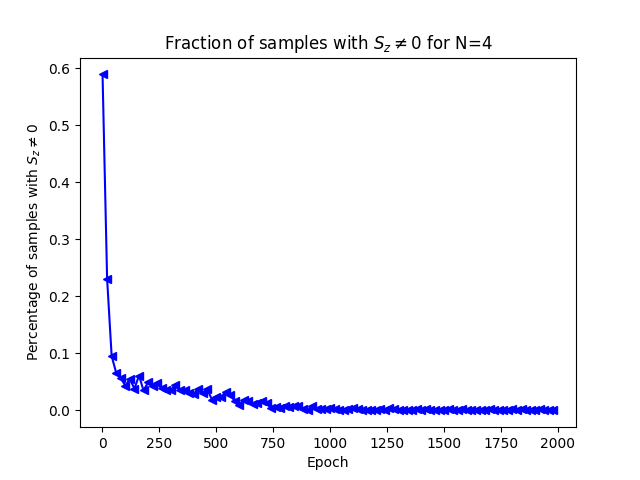
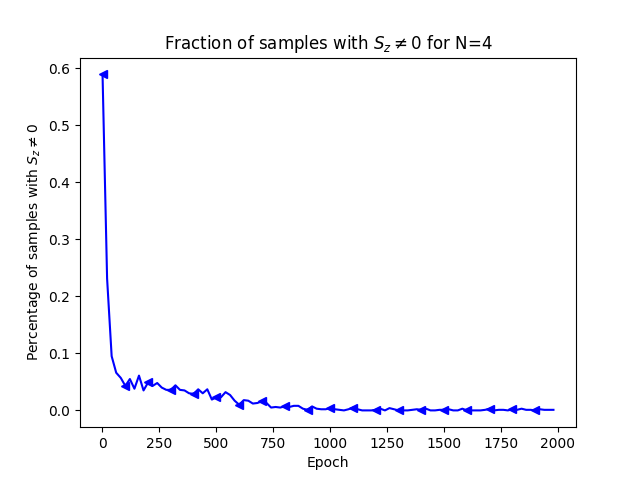
small tweaks to figures

Changed region(s): [[0.1875, 0.7812, 0.875, 0.875], [0.1562, 0.7188, 0.1875, 0.7812], [0.1562, 0.5625, 0.1875, 0.5938]]

diff --git a/visualizations.py b/visualizations.py
@@ -87,7 +87,7 @@ def plot_nonzero_sz(num_spins, in_path):
     sz_symm_false = np.load(os.path.join(path, f"sz_N_{num_spins}_symm_False.npy"))
 
     epochs = np.arange(len(sz_symm_false)) + 1
-    ax.plot(epochs[::20], sz_symm_false[::20], color="blue", marker='<')
+    ax.plot(epochs[::20], sz_symm_false[::20], color="blue", marker='<', markevery=5)
     ax.set_xlabel("Epoch")
     ax.set_ylabel(r"Percentage of samples with $S_z \neq 0$")
     ax.set_title(r"Fraction of samples with $S_z \neq 0$ " + f"for N={N}")
@@ -109,12 +109,12 @@ if __name__ == "__main__":
         energy_fig = create_energy_plot(num_spins=N, in_path=results_path, fig_no=5)
         energy_fig.savefig(os.path.join("figures", f"energy_diff_N_{N}.png"))
 
-    # create loss plots
+    # figure 6 from paper - loss plots
     for N in [4, 10]:
         loss_fig = plot_loss_values(num_spins=N, in_path=results_path)
         loss_fig.savefig(os.path.join("figures", f"loss_N_{N}.png"))
 
-    # sz non-zero plots
+    # figure 6 from paper - sz non-zero plots
     for N in [4, 10]:
         sz_nonzero_fig = plot_nonzero_sz(num_spins=N, in_path=results_path)
         sz_nonzero_fig.savefig(os.path.join("figures", f"sz_N_{N}.png"))
